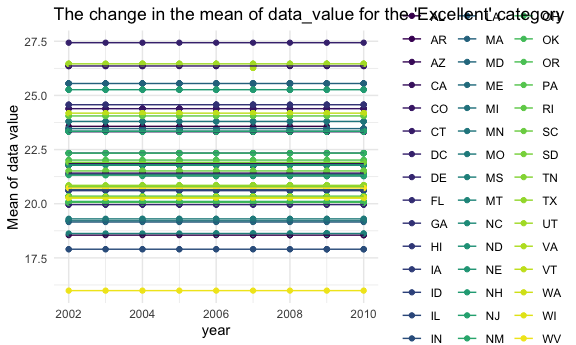
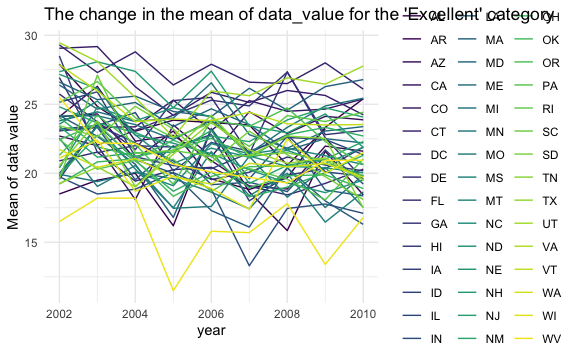
add density plot to problem 2 (3rd question)

diff --git a/p8105_hw3_tj2519.md b/p8105_hw3_tj2519.md
@@ -212,16 +212,18 @@ locations (counties), and the 6 states are “CT, FL, MA, NC, NJ, PA”. In
 ``` r
 problem2_clean %>% 
   filter(response == "Excellent") %>% 
-  group_by(location_abbr) %>% 
-  mutate(data_value_mean = mean(data_value, na.rm = TRUE)) %>% 
-  select(year, location_abbr, data_value_mean) %>% 
+  group_by(location_abbr, year) %>% 
+  summarize(data_value_mean = mean(data_value, na.rm = TRUE)) %>%
   ggplot(aes(x = year, y = data_value_mean, group = location_abbr, 
              color = location_abbr)) +
-  geom_point() + geom_line() +
+  geom_line() +
   theme_minimal() + 
   labs(title = "The change in the mean of data_value for the 'Excellent' category",
        y = "Mean of data value")
 ```
+
+    ## `summarise()` has grouped output by 'location_abbr'. You can override using the
+    ## `.groups` argument.
 
 <img src="p8105_hw3_tj2519_files/figure-gfm/unnamed-chunk-9-1.png" width="90%" />
 To make this plot, I move the legend to the right of the plot so it
@@ -233,14 +235,102 @@ could be more clear.
 problem2_clean %>% 
   filter(location_abbr == "NY", year == 2006 | year == 2010) %>% 
   ggplot(aes(x = data_value, fill = response)) +
-  geom_density(alpha = .5) + 
+  geom_density(alpha = .5) +
   facet_grid(. ~ year) +
   labs(title = "Data value distribution for the year 2006 and 2010 in New York",
        x= "Data value distribution")
 ```
 
 <img src="p8105_hw3_tj2519_files/figure-gfm/unnamed-chunk-10-1.png" width="90%" />
+
+``` r
+problem2_clean %>% 
+  filter(location_abbr == "NY", year == 2006 | year == 2010) %>% 
+  group_by(year) %>% 
+  ggplot(aes(x = response, y = data_value)) +
+  geom_boxplot() +
+  facet_grid(. ~ year) +
+  labs(title = "Data value distribution for the year 2006 and 2010 in New York",
+       x= "Data value distribution")
+```
+
+<img src="p8105_hw3_tj2519_files/figure-gfm/unnamed-chunk-10-2.png" width="90%" />
 I firstly filter the datset to include only the data in NY and only the
 observations from 2006 and 2010. Then, to show the distribution of each
 response type, I draw a density plot. Then, we split the plot according
 to the value of each year.
+
+# Problem 3
+
+## part1: read the two datasets and tidy the two datasets, also apply left_join by “seqn” to merge the two datasets
+
+``` r
+demo_data = 
+  read_csv("data/nhanes_covar.csv", skip = 4) %>% 
+  janitor::clean_names() %>% 
+  filter(age >= 21) %>% 
+  drop_na() %>% 
+  mutate(sex = recode(sex, `2` = "female", `1` = "male"),
+         education = recode(education, `1` = "Less than high school", 
+                                      `2` = "High school equivalent",
+                                      `3` = "More than high school"))
+```
+
+    ## Rows: 250 Columns: 5
+    ## ── Column specification ────────────────────────────────────────────────────────
+    ## Delimiter: ","
+    ## dbl (5): SEQN, sex, age, BMI, education
+    ## 
+    ## ℹ Use `spec()` to retrieve the full column specification for this data.
+    ## ℹ Specify the column types or set `show_col_types = FALSE` to quiet this message.
+
+``` r
+acc_data =
+  read_csv("data/nhanes_accel.csv") %>% 
+  janitor::clean_names()
+```
+
+    ## Rows: 250 Columns: 1441
+    ## ── Column specification ────────────────────────────────────────────────────────
+    ## Delimiter: ","
+    ## dbl (1441): SEQN, min1, min2, min3, min4, min5, min6, min7, min8, min9, min1...
+    ## 
+    ## ℹ Use `spec()` to retrieve the full column specification for this data.
+    ## ℹ Specify the column types or set `show_col_types = FALSE` to quiet this message.
+
+``` r
+demo_acc_join = 
+  left_join(demo_data, acc_data, by = "seqn")
+
+
+view(acc_data)
+view(demo_data)
+view(demo_acc_join)
+```
+
+## part2: encode data
+
+``` r
+demo_acc_join 
+```
+
+    ## # A tibble: 228 × 1,445
+    ##     seqn sex      age   bmi education     min1   min2   min3  min4   min5   min6
+    ##    <dbl> <chr>  <dbl> <dbl> <chr>        <dbl>  <dbl>  <dbl> <dbl>  <dbl>  <dbl>
+    ##  1 62161 male      22  23.3 High school… 1.11  3.12   1.47   0.938 1.60   0.145 
+    ##  2 62164 female    44  23.2 More than h… 1.92  1.67   2.38   0.935 2.59   5.22  
+    ##  3 62169 male      21  20.1 High school… 5.85  5.18   4.76   6.48  6.85   7.24  
+    ##  4 62174 male      80  33.9 More than h… 5.42  3.48   3.72   3.81  6.85   4.45  
+    ##  5 62177 male      51  20.1 High school… 6.14  8.06   9.99   6.60  4.57   2.78  
+    ##  6 62178 male      80  28.5 High school… 0.167 0.429  0.131  1.20  0.0796 0.0487
+    ##  7 62180 male      35  27.9 More than h… 0.039 0      0      0     0.369  0.265 
+    ##  8 62184 male      26  22.1 High school… 1.55  2.81   3.86   4.76  6.10   7.61  
+    ##  9 62189 female    30  22.4 More than h… 2.81  0.195  0.163  0     0.144  0.180 
+    ## 10 62199 male      57  28   More than h… 0.031 0.0359 0.0387 0.079 0.109  0.262 
+    ## # ℹ 218 more rows
+    ## # ℹ 1,434 more variables: min7 <dbl>, min8 <dbl>, min9 <dbl>, min10 <dbl>,
+    ## #   min11 <dbl>, min12 <dbl>, min13 <dbl>, min14 <dbl>, min15 <dbl>,
+    ## #   min16 <dbl>, min17 <dbl>, min18 <dbl>, min19 <dbl>, min20 <dbl>,
+    ## #   min21 <dbl>, min22 <dbl>, min23 <dbl>, min24 <dbl>, min25 <dbl>,
+    ## #   min26 <dbl>, min27 <dbl>, min28 <dbl>, min29 <dbl>, min30 <dbl>,
+    ## #   min31 <dbl>, min32 <dbl>, min33 <dbl>, min34 <dbl>, min35 <dbl>, …
